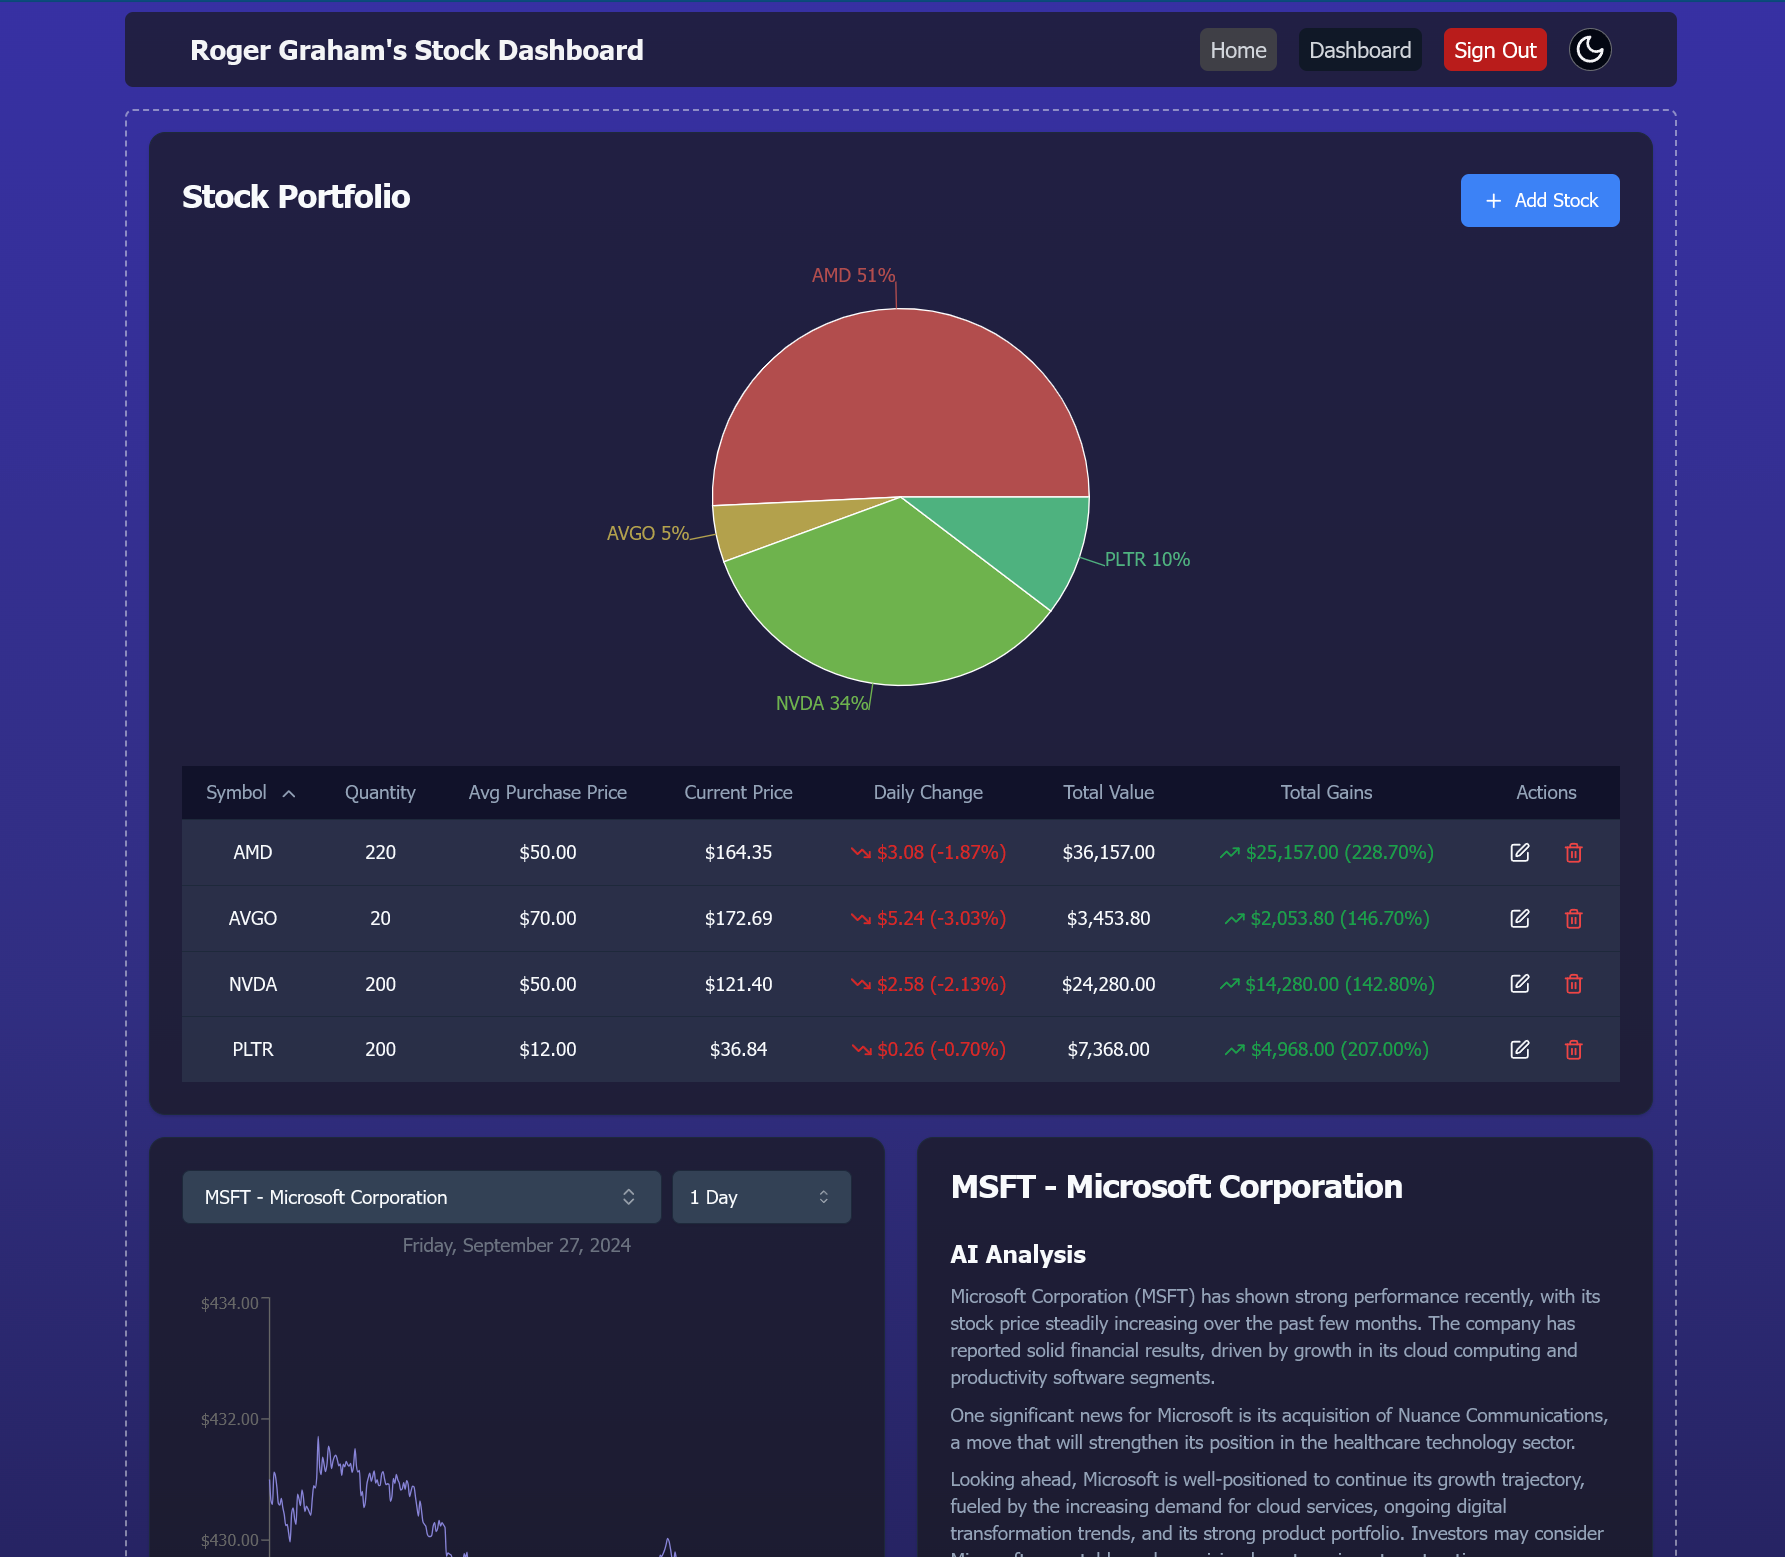
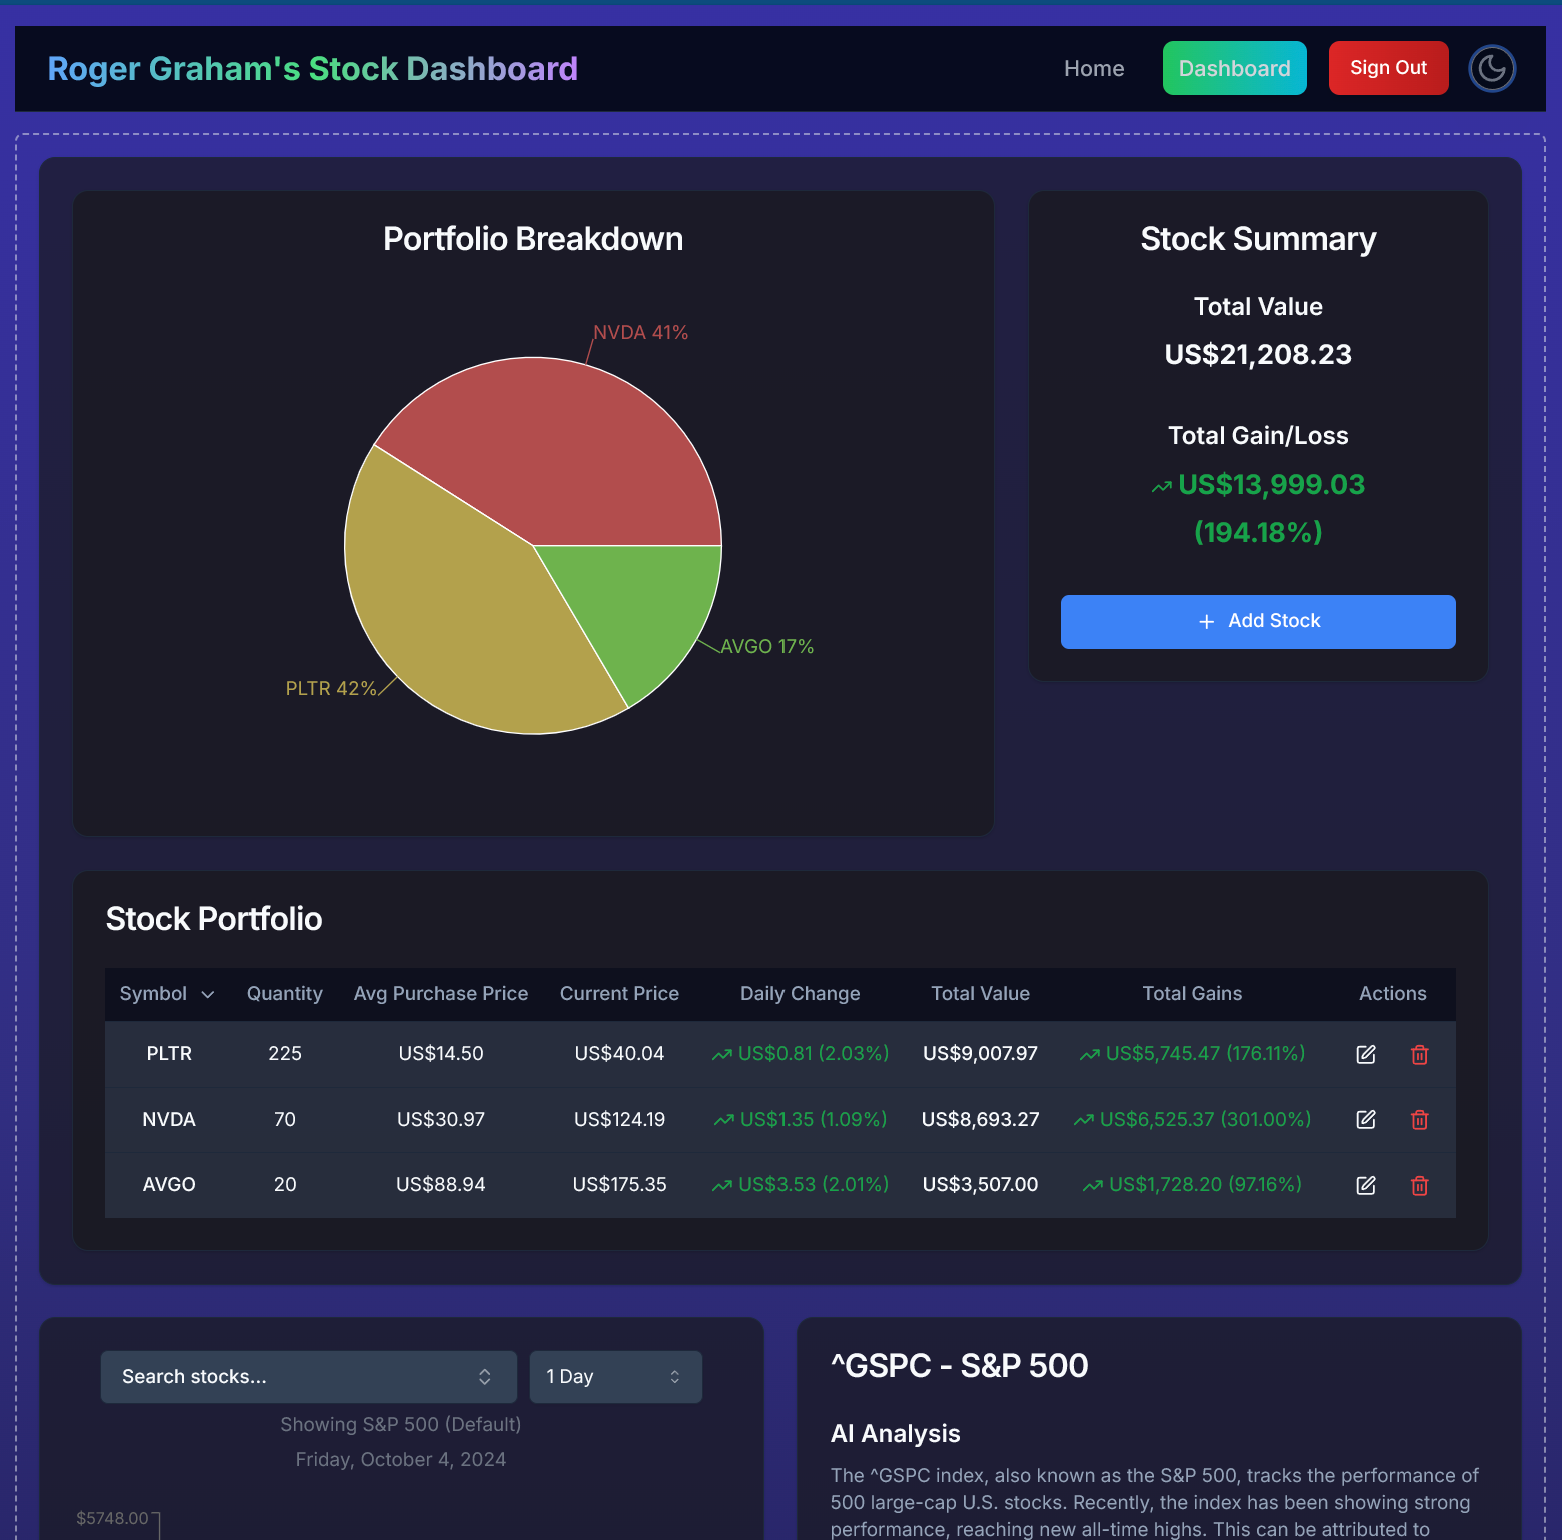
Update stockDashBoardImg and widen site

diff --git a/components/project.tsx b/components/project.tsx
@@ -28,7 +28,7 @@ export default function Project({
   return (
     //need to use enclosing div so animation is smooth
     <motion.div
-      className="group mb-3 sm:mb-8 last:mb-0 flex w-full max-w-[42rem]"
+      className="group mb-8 md:mb-12 last:mb-0 flex w-full max-w-[52rem]"
       ref={ref}
       style={{ scale: scaleProgress, opacity: opacityProgress }}
     >
@@ -39,14 +39,14 @@ export default function Project({
         aria-label="View ${title} project on Github"
         className="cursor-pointer"
       >
-        <section className="flex flex-col-reverse sm:flex-row bg-gray-50 border border-black/5 rounded-lg overflow-hidden sm:pr-8 relative sm:h-[20rem] hover:bg-gray-100 transition sm:group-even:pl-8 text-blue-700 dark:text-blue-400 dark:bg-white/10 dark:hover:bg-white/20 shadow-light-mode dark:shadow-dark-mode">
-          <div className="pt-4 pb-7 px-5 pl-10 sm:pr-2 sm:pt-10 flex flex-col h-full sm:max-w-[50%] sm:group-even:ml-[18rem]">
+        <section className="flex flex-col-reverse md:flex-row bg-gray-50 border border-black/5 rounded-lg overflow-hidden md:pr-8 relative md:h-[20rem] hover:bg-gray-100 transition md:group-even:pl-20 text-blue-700 dark:text-blue-400 dark:bg-white/10 dark:hover:bg-white/20 shadow-light-mode dark:shadow-dark-mode">
+          <div className="pt-8 pb-7 px-5 pl-14 md:pr-2 md:pt-10 flex flex-col h-full md:max-w-[50%] md:group-even:ml-[20rem]">
             <h3 className="text-2xl font-semibold">{title}</h3>
             {/* leading-relaxed allows for line breaks */}
-            <p className="mt-2 mb-2  leading-relaxed text-gray-900 dark:text-gray-200">
+            <p className="mt-2 mb-2 leading-relaxed text-gray-900 dark:text-gray-200">
               {description}
             </p>
-            <ul className="flex flex-wrap mt-4 gap-2 sm:mt-auto items-center justify-center">
+            <ul className="flex flex-wrap mt-4 gap-2 md:mt-auto items-center justify-center">
               {tags.map((tag, index) => (
                 <li
                   className=" bg-teal-800 dark:bg-teal-900 text-gray-100 dark:text-gray-50 px-3 py-1 text-[0.7rem] uppercase tracking-wider rounded-full"
@@ -58,15 +58,16 @@ export default function Project({
             </ul>
           </div>
           <Image
-            className="w-auto h-auto sm:w-[28.25rem] sm:absolute top-8 -right-40 rounded-t-lg shadow-2xl
-          sm:group-even:right-[initial] sm:group-even:-left-40
-          sm:group-hover:-translate-x-3
-          sm:group-hover:translate-y-3
-          sm:group-hover:rotate-2
+            className="w-auto h-[22rem] p-8 md:p-0 object-cover object-top md:h-auto md:w-[34.25rem] md:absolute top-8 -right-44 rounded-t-lg shadow-2xl
+          md:group-even:right-[initial] md:group-even:-left-44
+          md:group-hover:-translate-x-3
+          md:group-hover:translate-y-3
+          md:group-hover:rotate-2
           group-hover:scale-105
-          sm:group-even:group-hover:translate x-3
-          sm:group-even:group-hover:translate y-3
-          sm:group-even:group-hover:rotate-2
+          md:group-hover:scale-105
+          md:group-even:group-hover:translate x-3
+          md:group-even:group-hover:translate y-3
+          md:group-even:group-hover:rotate-2
           transition"
             src={imageUrl}
             alt={`Screenshot of ${title}. A project that I coded`}

diff --git a/components/contact.tsx b/components/contact.tsx
@@ -11,7 +11,7 @@ export default function Contact() {
   return (
     <SectionWithRef
       id="Contact"
-      className="flex flex-col items-center scroll-mt-28  mb-20 sm:mb-28 text-center w-full"
+      className="flex flex-col items-center scroll-mt-28 mb-20 sm:mb-28 text-center w-full"
       initial={{ opacity: 0 }}
       whileInView={{ opacity: 1 }}
       transition={{ duration: 1 }}
@@ -24,7 +24,7 @@ export default function Contact() {
       </p>
 
       <form
-        className="mt-6 flex flex-col dark:text-black w-[min(100%,38rem)]"
+        className="mt-6 flex flex-col dark:text-black w-[min(100%,46rem)]"
         ref={formRef}
         action={async (formData) => {
           const { data, error } = await sendEmail(formData);
@@ -51,7 +51,7 @@ export default function Contact() {
           placeholder="Your email"
         />
         <textarea
-          className="h-52 my-3 rounded-lg borderBlack p-4  dark:bg-slate-800 dark:text-gray-100 dark:bg-opacity-80 dark:focus:bg-opacity-100 transition-all shadow-light-mode dark:shadow-dark-mode"
+          className="h-60 my-3 rounded-lg borderBlack p-4  dark:bg-slate-800 dark:text-gray-100 dark:bg-opacity-80 dark:focus:bg-opacity-100 transition-all shadow-light-mode dark:shadow-dark-mode"
           name="message"
           placeholder="Your message"
           required

diff --git a/components/skills-components/skills-list.tsx b/components/skills-components/skills-list.tsx
@@ -73,7 +73,7 @@ const SkillsList: React.FC<SkillsListProps> = ({ skills }) => {
 
           return (
             <MotionLi
-              className="relative hexagon bg-gradient-to-r from-blue-300 to-teal-300 text-slate-950 shadow-light-mode dark:shadow-dark-mode dark:bg-gradient-to-r dark:from-teal-800 dark:to-blue-900 dark:text-teal-200 flex items-center justify-evenly flex-col  max-w-28 max-h-28 sm:max-w-32 sm:max-h-32 px-6 py-6 sm:px-6 sm:py-6"
+              className="relative hexagon bg-gradient-to-r from-blue-300 to-teal-300 text-slate-950 shadow-light-mode dark:shadow-dark-mode dark:bg-gradient-to-r dark:from-teal-800 dark:to-blue-900 dark:text-teal-200 flex items-center justify-evenly flex-col  max-w-28 max-h-28 sm:max-w-40 sm:max-h-40 px-6 py-6 sm:px-6 sm:py-6"
               key={index}
               initial={animationVariants.initial}
               whileInView={animationVariants.whileInView(index)}

diff --git a/components/section-heading.tsx b/components/section-heading.tsx
@@ -9,7 +9,7 @@ export default function SectionHeading({ children }: SectionHeadingProps) {
     // text-transparent bg-clip-text bg-gradient-to-r from-sky-500 from-10% via-blue-700 via-50% to-sky-500 to to-90%
     //  border-blue-700 dark:border-gray-400
 
-    <h2 className=" text-3xl font-medium capitalize mb-12 sm:mb-16 mx-auto text-center w-full max-w-[44rem] text-blue-700 dark:text-blue-400 tracking-wide leading-tight px-4 relative">
+    <h2 className=" text-3xl font-medium capitalize mb-12 sm:mb-16 mx-auto text-center w-full max-w-[52rem] text-blue-700 dark:text-blue-400 tracking-wide leading-tight px-4 relative">
       {children}
       <span className="absolute bottom-[-0.2rem] left-0 w-full h-[2px] sm:h-[2px] bg-gradient-to-r from-cyan-500 from-10% via-blue-700 via-50% to-cyan-500 to-90% dark:from-cyan-400 dark:from-10% dark:via-blue-400 dark:via-50% dark:to-cyan-400 dark:to-90%"></span>
     </h2>

diff --git a/lib/data.ts b/lib/data.ts
@@ -106,8 +106,8 @@ export const projectsData = [
   {
     title: "Stock Dashboard",
     description:
-      "Stock Dashboard is a full-stack app for that allows users to search, store and view stock data using React, Next.js, TypeScript, PostgreSQL and OpenAI's API.",
-    tags: ["OpenAI", "React", "Next.js", "TypeScript", "PostgreSQL"],
+      "Stock Dashboard is a full-stack app that allows users to search, store and view stock data using React, Next.js, TypeScript, PostgreSQL, Zod, and OpenAI's API.",
+    tags: ["OpenAI", "React", "Next.js", "TypeScript",  "PostgreSQL", "Zod"],
     imageUrl: stockDashboardImg,
     gitghubUrl: "https://github.com/nordicirish/stock-dashboard",
   },

diff --git a/app/layout.tsx b/app/layout.tsx
@@ -32,7 +32,7 @@ export default function RootLayout({
   return (
     <html lang="en" className="!scroll-smooth">
       <body
-        className={`${font.className} bg-gray-50 text-gray-950 relative pt-24 sm:pt-32 dark:bg-gray-900 dark:text-gray-50 dark:text-opacity-90 max-w-[51rem] mx-auto`}
+        className={`${font.className} bg-gray-50 text-gray-950 relative pt-24 sm:pt-32 dark:bg-gray-900 dark:text-gray-50 dark:text-opacity-90 max-w-[60rem] mx-auto`}
       >
         <ThemeContextProvider>
           <BackgroundDivs />

diff --git a/components/experience-timeline.tsx b/components/experience-timeline.tsx
@@ -18,7 +18,7 @@ const ExperienceTimeline: React.FC<Props> = ({ experiencesData, theme }) => {
           <VerticalTimelineElement
             visible={true}
             contentStyle={{
-              maxWidth: "50rem",
+              maxWidth: "58rem",
               background:
                 theme === "light" ? "#F1F5F9" : "rgba(255, 255, 255, 0.05)",
               boxShadow:

diff --git a/components/about-components/badge.tsx b/components/about-components/badge.tsx
@@ -10,7 +10,7 @@ const Badge: React.FC<BadgesProps> = ({ href, src, alt }) => {
           src={src}
           alt={alt}
           aria-label={alt}
-          className="w-12 h-12 sm:w-16 sm:h-16"
+          className="w-14 h-14 sm:w-16 sm:h-16"
           width={75}
           height={75}
           quality={100}
